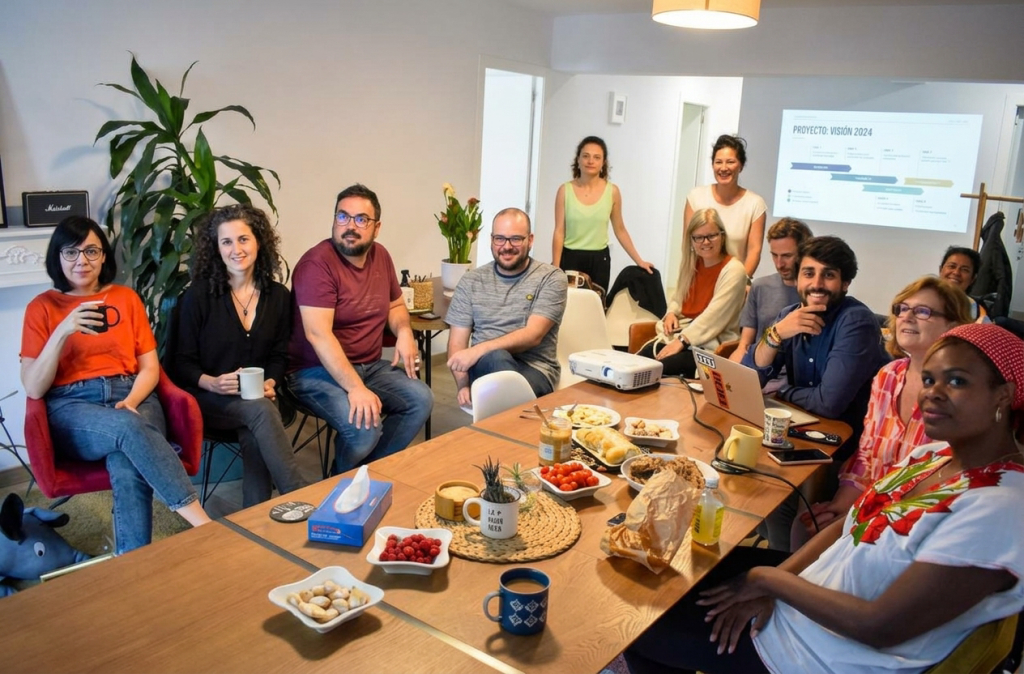
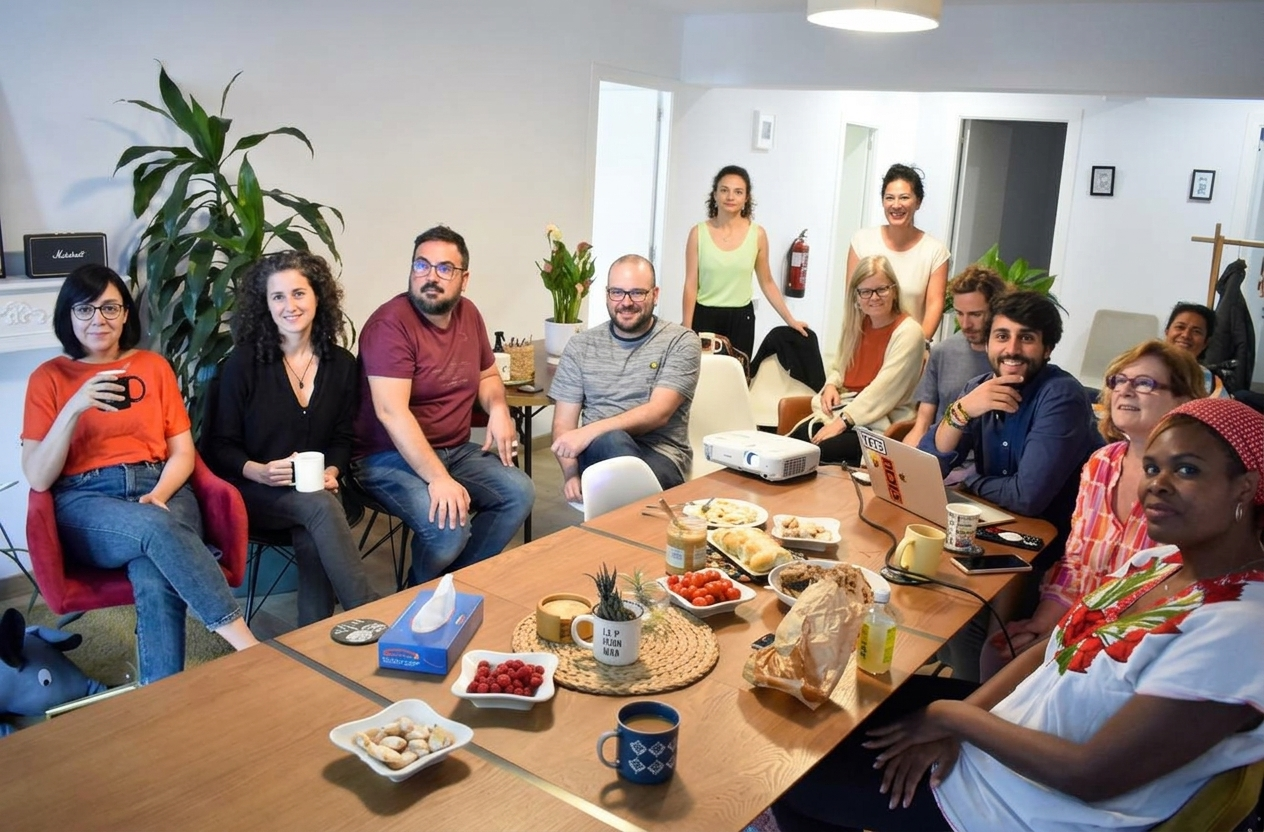
Replace LinkedIn curiosidad section photo with café community group
Overwrite home-puente-linkedin-comunidad.jpg and refresh the alt text; layout and copy unchanged.

diff --git a/src/components/Espacio.tsx b/src/components/Espacio.tsx
@@ -136,7 +136,7 @@ const bridges: {
     ),
     href: "https://www.instagram.com/p/Dd1jEO6sUUa/",
     image: "/photos/home-puente-linkedin-comunidad.jpg",
-    alt: "Grupo de la comunidad reunido alrededor de la mesa del salón con café y aperitivos; al fondo, proyección del proyecto Visión 2024",
+    alt: "Grupo de la comunidad reunido alrededor de una mesa de madera con café, fruta y aperitivos en el salón",
     objectPosition: "object-[center_40%]",
   },
 ];
